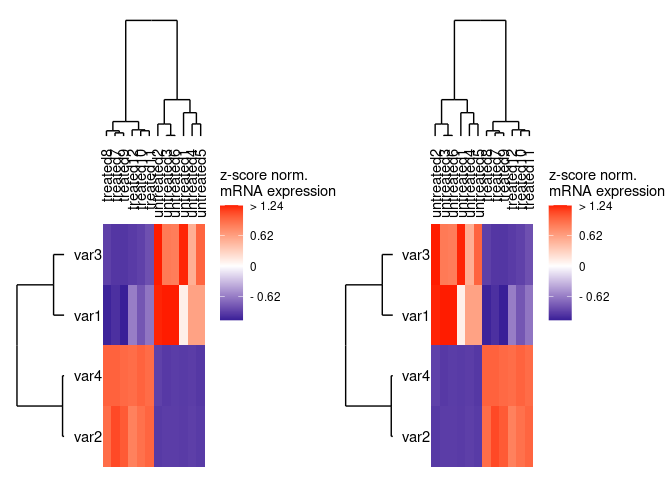
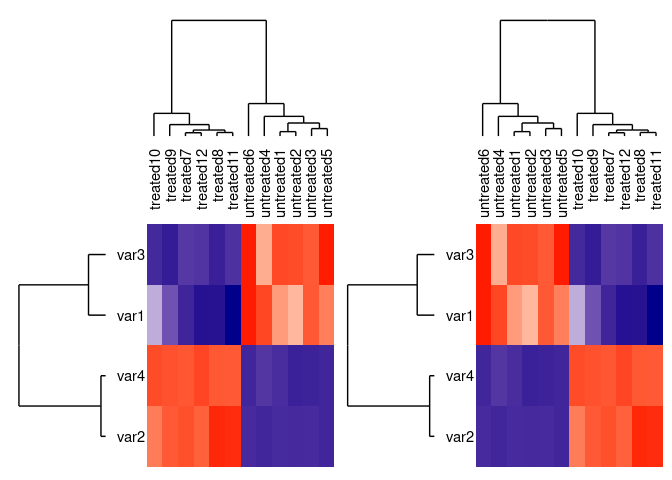
added legend hiding and readme updates

diff --git a/README.md b/README.md
@@ -36,12 +36,12 @@ df <- data.frame(samples = c(paste0("untreated", 1:6), paste0("treated", 7:12)),
 
 head(df)
 #>      samples     group  patient batch      var1      var2     var3      var4
-#> 1 untreated1 Untreated Patient1     1  8.891739  9.220799 57.41239 10.088072
-#> 2 untreated2 Untreated Patient2     2 10.737352  8.458915 57.92662 10.885514
-#> 3 untreated3 Untreated Patient3     1 11.001549 10.176619 49.35026  9.854329
-#> 4 untreated4 Untreated Patient1     2  9.719786 11.301982 42.28681 10.444724
-#> 5 untreated5 Untreated Patient2     1  9.721286  9.080322 51.96233  9.700775
-#> 6 untreated6 Untreated Patient3     2 10.996322 10.454314 48.94407 10.340856
+#> 1 untreated1 Untreated Patient1     1  9.491640 11.029656 50.52822 10.278410
+#> 2 untreated2 Untreated Patient2     2  9.188199 10.286068 50.31340  8.820163
+#> 3 untreated3 Untreated Patient3     1 10.126060 11.161845 49.13559  8.994447
+#> 4 untreated4 Untreated Patient1     2 10.256182  8.855773 39.98354 11.394917
+#> 5 untreated5 Untreated Patient2     1  9.773227  8.737668 53.70204  9.250893
+#> 6 untreated6 Untreated Patient3     2 11.515521 11.070132 53.48965  9.260924
 
 heatmap_plot <- simpleHM(df, excluded_vars = "batch")    
 #> normalisation done
@@ -120,7 +120,7 @@ through rotation along the branches of the tree.
 
 
 library(patchwork)
-p1 <- simpleHM(df, excluded_vars = "batch", add_dendros = T )
+p1 <- simpleHM(df, excluded_vars = "batch", add_dendros = T, hide_legend = T)
 #> normalisation done
 #> clustering samples done
 #> clustering params done
@@ -129,7 +129,7 @@ p1 <- simpleHM(df, excluded_vars = "batch", add_dendros = T )
 #> Adding another scale for y, which will replace the existing scale.
 #> Scale for x is already present.
 #> Adding another scale for x, which will replace the existing scale.
-p2 <- simpleHM(df, excluded_vars = "batch", add_dendros = T, pull_top = 7:12)
+p2 <- simpleHM(df, excluded_vars = "batch", add_dendros = T, pull_top = 7:12, hide_legend = T)
 #> normalisation done
 #> clustering samples done
 #> clustering params done
@@ -137,7 +137,7 @@ p2 <- simpleHM(df, excluded_vars = "batch", add_dendros = T, pull_top = 7:12)
 #> Scale for y is already present.
 #> Adding another scale for y, which will replace the existing scale.Scale for x is already present.
 #> Adding another scale for x, which will replace the existing scale.
-p3 <- simpleHM(df, excluded_vars = "batch", add_dendros = T, pull_side = 3:4)
+p3 <- simpleHM(df, excluded_vars = "batch", add_dendros = T, pull_side = 3:4, hide_legend = T)
 #> normalisation done
 #> clustering samples done
 #> clustering params done
@@ -145,7 +145,7 @@ p3 <- simpleHM(df, excluded_vars = "batch", add_dendros = T, pull_side = 3:4)
 #> Scale for y is already present.
 #> Adding another scale for y, which will replace the existing scale.Scale for x is already present.
 #> Adding another scale for x, which will replace the existing scale.
-p4 <- simpleHM(df, excluded_vars = "batch", add_dendros = T, pull_side = c("var1", "var3"))
+p4 <- simpleHM(df, excluded_vars = "batch", add_dendros = T, pull_side = c("var1", "var3"), hide_legend = T)
 #> normalisation done
 #> clustering samples done
 #> clustering params done
